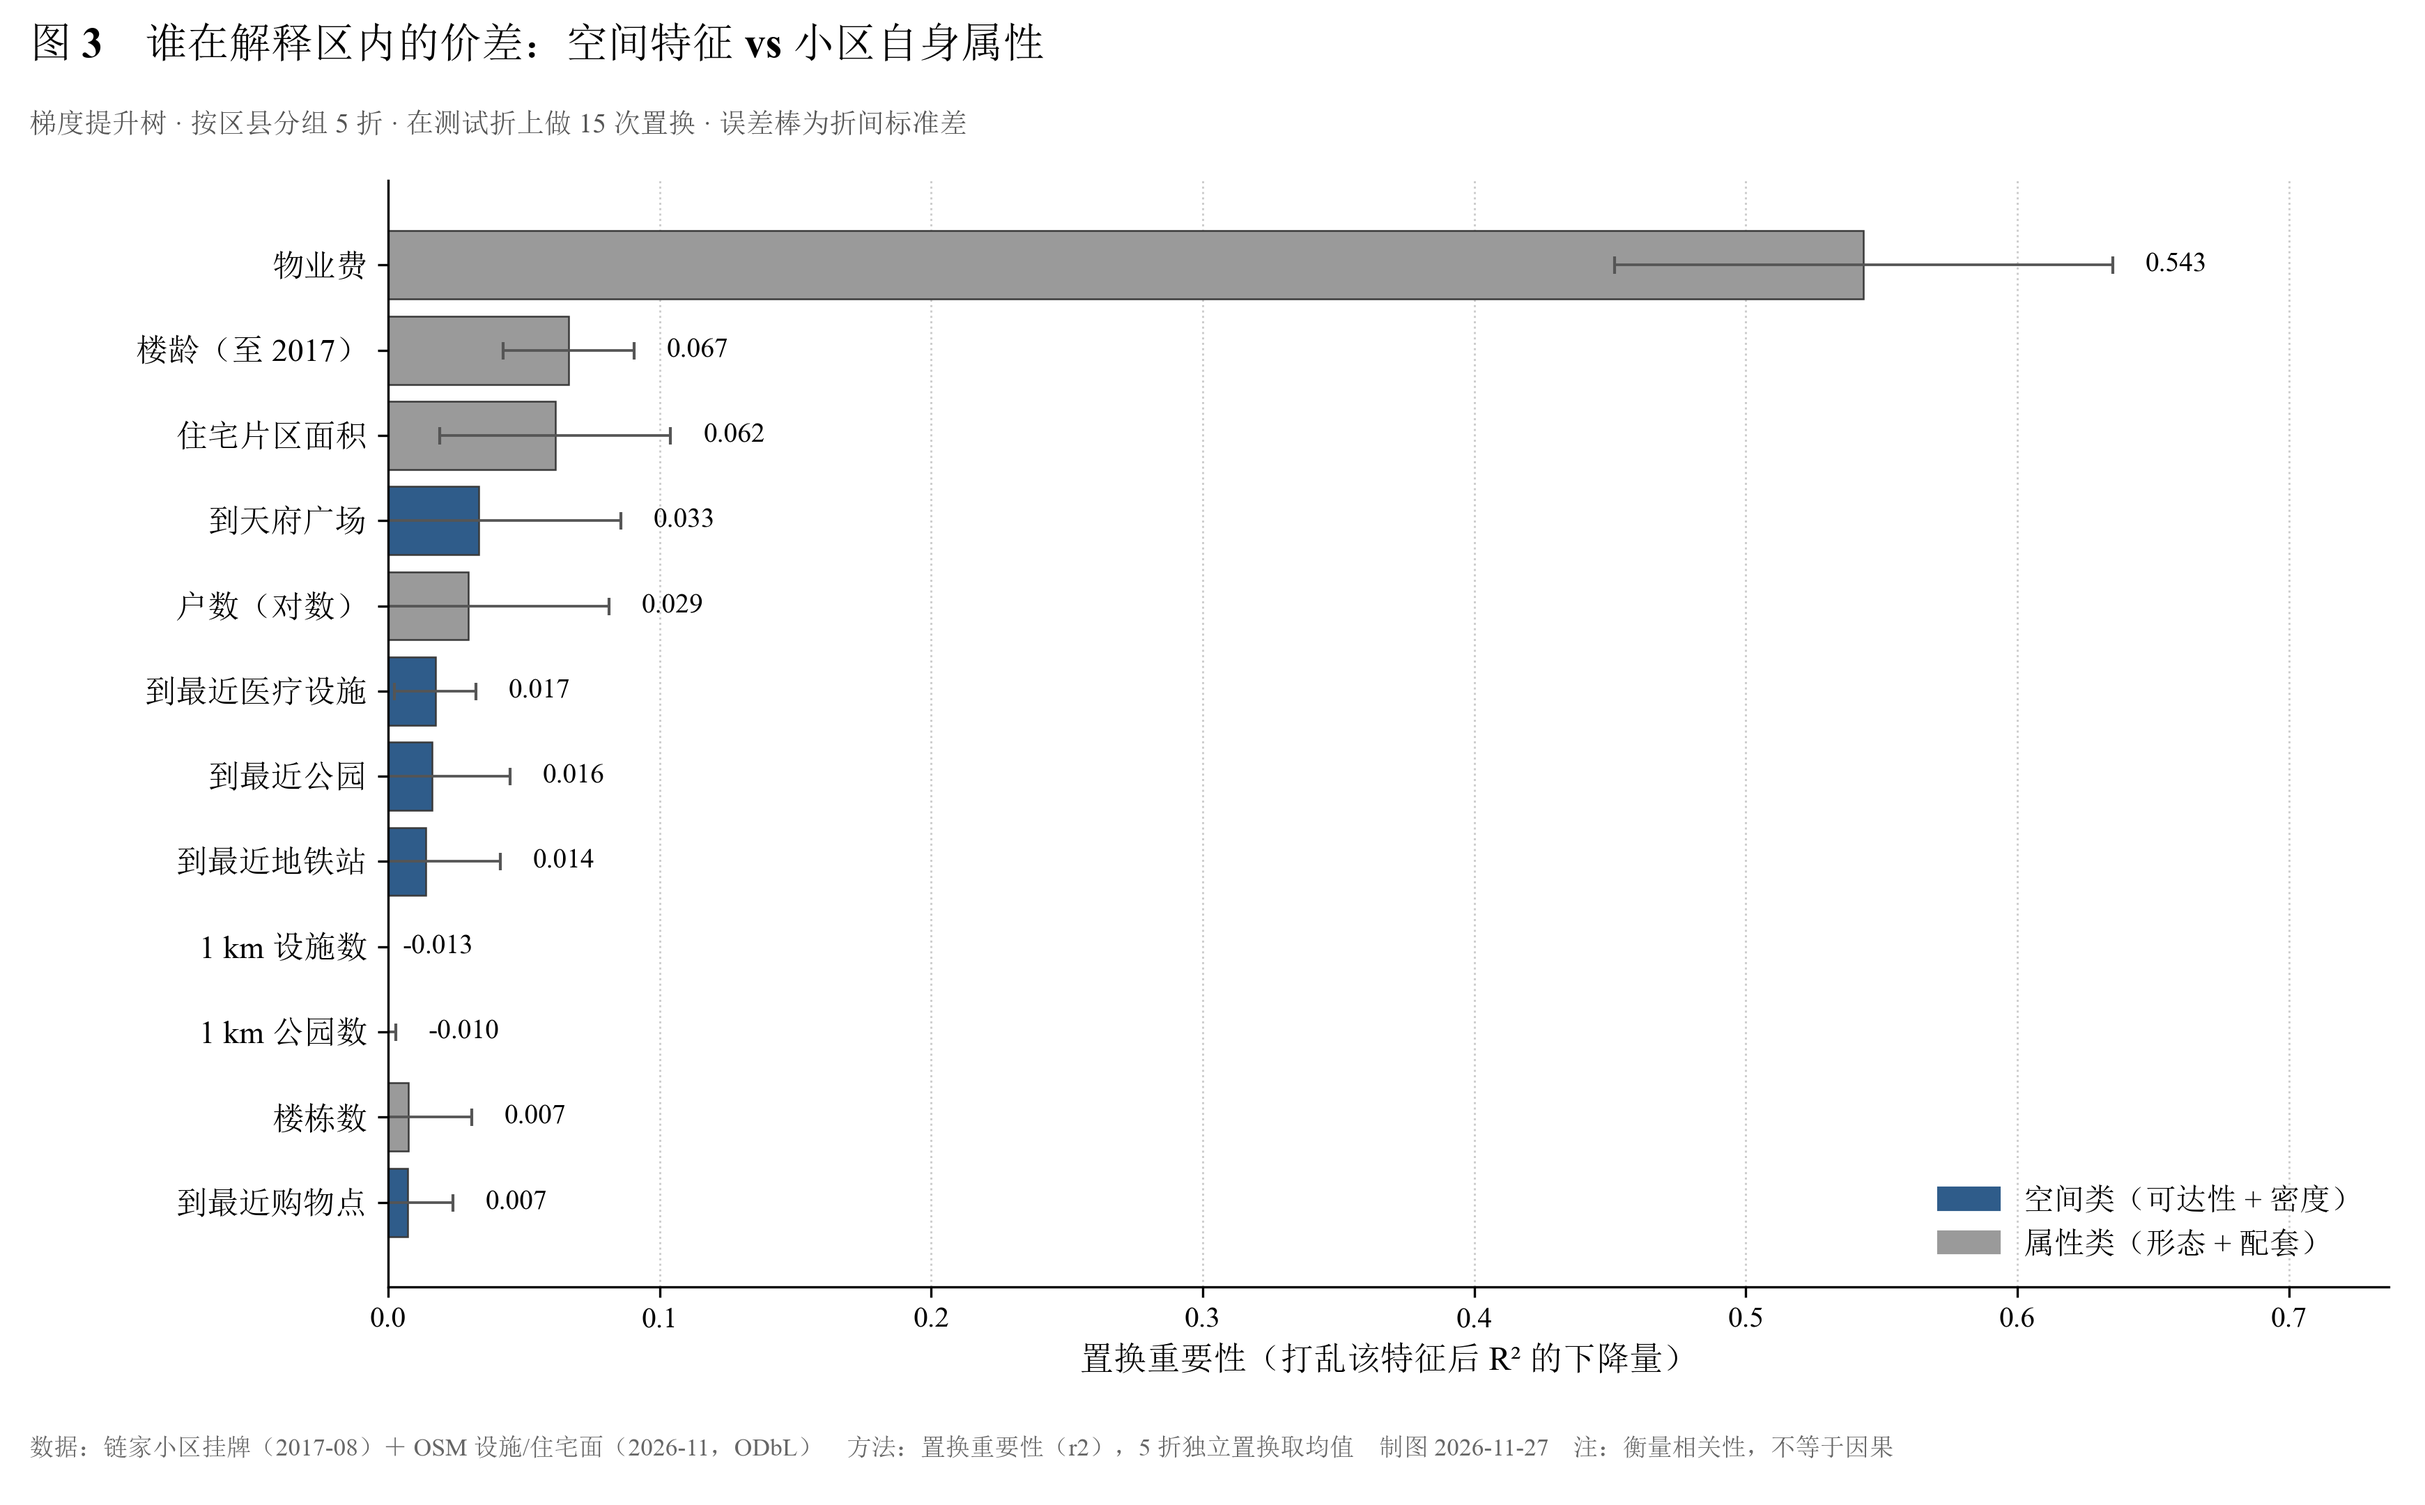
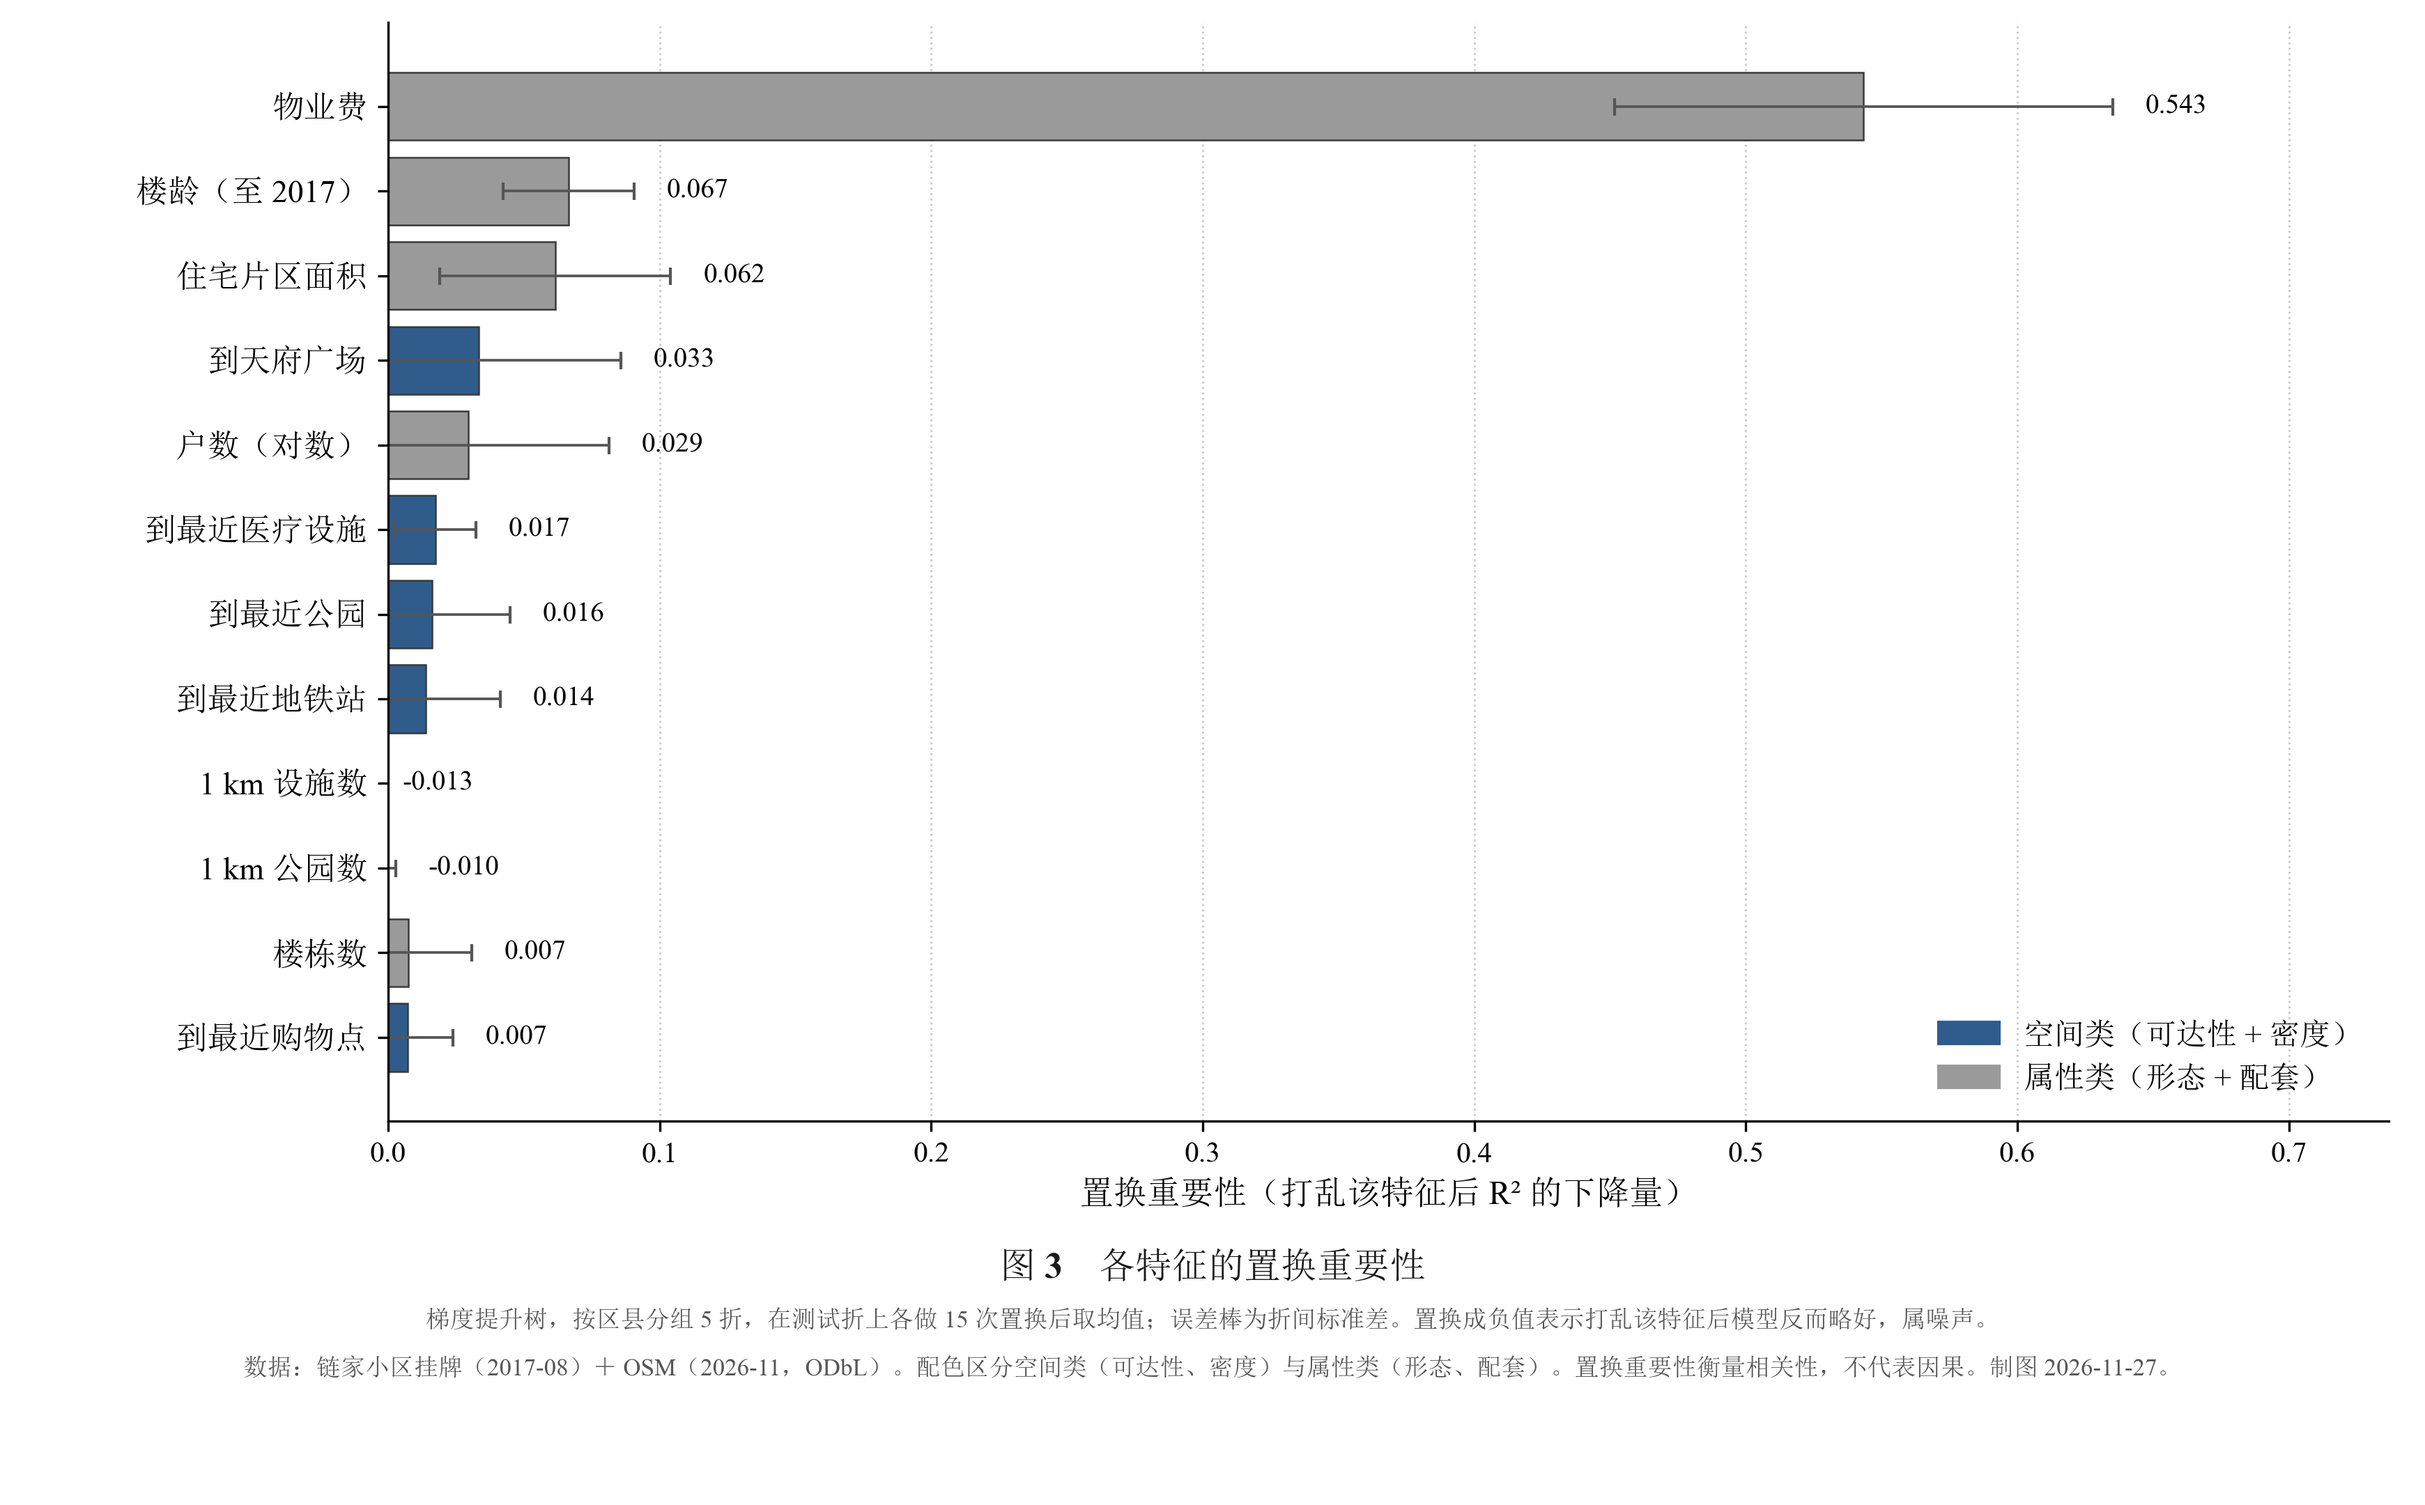
figs: 图名改为论文式（简洁题名、置于图下）+ README 图注

diff --git a/figures.py b/figures.py
@@ -51,6 +51,16 @@ def setup_fonts() -> bool:
     return ok
 
 
+def add_caption(fig, no: int, title: str, notes: list[str], top: float,
+                step: float = 0.030) -> None:
+    """论文式图注：图号 + 题名居中放在图下，其后接说明行（小字、灰色）。"""
+    fig.text(0.5, top, f"图 {no}　{title}", ha="center", va="top",
+             fontsize=12.5, fontweight="bold", color="#1a1a1a")
+    for i, n in enumerate(notes):
+        fig.text(0.5, top - 0.038 - i * step, n, ha="center", va="top",
+                 fontsize=8.4, color="#555555")
+
+
 def load_all():
     cv = json.loads((BUILD / "cv_results.json").read_text(encoding="utf-8"))
     oof = pd.read_csv(BUILD / "oof_predictions.csv", encoding="utf-8-sig")
@@ -64,7 +74,7 @@ def fig_cv_gap(cv: dict) -> Path:
     models = [("linear", "线性（岭回归）"), ("hgb", "梯度提升树")]
     colors = {0: "#C9D9E6", 1: "#5C86AE"}
 
-    fig, ax = plt.subplots(figsize=(12.6, 6.6))
+    fig, ax = plt.subplots(figsize=(12.6, 7.0))
     x = np.arange(len(schemes))
     width = 0.34
     for j, (mkey, mlabel) in enumerate(models):
@@ -108,17 +118,14 @@ def fig_cv_gap(cv: dict) -> Path:
     labels.append("基线 R² = 0（区内均值）")
     ax.legend(handles, labels, loc="upper right", frameon=False, fontsize=11)
 
-    fig.text(0.012, 0.965, "图 1　切分方式对预测精度的影响：随机 vs 空间分组",
-             fontsize=14.5, fontweight="bold")
-    fig.text(0.012, 0.905,
-             f"样本 525 个住宅小区 · 5 个中心城区 · 26 个特征 · 目标为区县内 log 单价 z-score · 制图 {MAP_DATE}",
-             fontsize=9.5, color="#555555")
-    fig.text(0.012, 0.035,
-             "数据：链家小区挂牌（2017-08 口径）＋ OpenStreetMap 设施/住宅面（2026-11 快照，ODbL）　"
-             "方法：同一份特征下比较 3 种切分 × 2 个模型，指标为按测试集样本数加权的折均值　　"
-             "制图：Matplotlib，宋体 + Times New Roman",
-             fontsize=8.5, color="#666666")
-    fig.subplots_adjust(left=0.07, right=0.985, top=0.87, bottom=0.12)
+    fig.subplots_adjust(left=0.09, right=0.985, top=0.985, bottom=0.225)
+    add_caption(
+        fig, 1, "交叉验证方式对模型精度的影响",
+        ["同一组特征与超参数，只更换切分方式；基线为区县内均值（R² = 0）。"
+         "样本 525 个住宅小区，5 个中心城区，26 个特征。",
+         "数据：链家小区挂牌（2017-08）＋ OpenStreetMap 设施与住宅面（2026-11，ODbL）。"
+         "指标为按测试集样本数加权的 5 折均值。制图：Matplotlib，宋体 + Times New Roman。"],
+        top=0.168)
     out = DOCS / "fig_cv_gap.png"
     fig.savefig(out, dpi=300, bbox_inches=None)
     plt.close(fig)
@@ -198,20 +205,16 @@ def fig_residual_map(oof: pd.DataFrame) -> Path:
     except Exception:
         pass
 
-    fig.text(0.012, 0.965, "图 2　模型残差的空间分布：它在哪里系统性看错",
-             fontsize=14.5, fontweight="bold")
-    fig.text(0.012, 0.908,
-             "梯度提升树 · 按区县分组 5 折交叉验证的 out-of-fold 预测 · "
-             f"残差 Moran's I = {moran['I']}（p = {moran['p_perm']}，8 邻域）", fontsize=9.5, color="#555555")
-    fig.text(0.012, 0.05,
-             "数据：链家小区挂牌（2017-08）＋ OSM 设施/住宅面（2026-11，ODbL）　"
-             "投影：WGS84 经纬度（比例尺按 30.7°N 换算）　制图：2026-11-27",
-             fontsize=8.5, color="#666666")
-    fig.text(0.012, 0.028,
-             "方法：残差 = 同区县内实际 log 单价与预测之差，百分比由该区 log 标准差还原；"
-             "片区标注取样本 ≥8 的片区中位数　注：色阶截断于 ±95 分位",
-             fontsize=8.5, color="#666666")
-    fig.subplots_adjust(left=0.02, right=0.985, top=0.88, bottom=0.135)
+    fig.subplots_adjust(left=0.02, right=0.985, top=0.985, bottom=0.235)
+    add_caption(
+        fig, 2, "模型残差的空间分布",
+        ["梯度提升树，按区县分组 5 折的 out-of-fold 预测。残差 = 区内实际 log 单价与预测之差，"
+         "按该区 log 标准差还原为百分比。",
+         f"Moran's I = {moran['I']}（p = {moran['p_perm']}，8 邻域 KNN 权重，999 次置换）。"
+         "暖色为低估（实际更贵），冷色为高估；色阶截断于 ±95 分位。",
+         "片区标注取样本数 ≥ 8 的片区中位数。投影 WGS84，比例尺按 30.7°N 换算。"
+         "数据：链家挂牌（2017-08）＋ OSM（2026-11，ODbL）。制图 2026-11-27。"],
+        top=0.130, step=0.032)
     out = DOCS / "fig_residual_map.png"
     fig.savefig(out, dpi=300, bbox_inches=None)
     plt.close(fig)
@@ -250,16 +253,14 @@ def fig_importance(cv: dict) -> Path:
                        Patch(color="#9A9A9A", label="属性类（形态 + 配套）")],
               loc="lower right", frameon=False, fontsize=10.5)
 
-    fig.text(0.012, 0.962, "图 3　谁在解释区内的价差：空间特征 vs 小区自身属性",
-             fontsize=14.5, fontweight="bold")
-    fig.text(0.012, 0.912,
-             "梯度提升树 · 按区县分组 5 折 · 在测试折上做 15 次置换 · 误差棒为折间标准差",
-             fontsize=9.5, color="#555555")
-    fig.text(0.012, 0.033,
-             "数据：链家小区挂牌（2017-08）＋ OSM 设施/住宅面（2026-11，ODbL）　"
-             "方法：置换重要性（r2），5 折独立置换取均值　制图 2026-11-27　注：衡量相关性，不等于因果",
-             fontsize=8.5, color="#666666")
-    fig.subplots_adjust(left=0.16, right=0.985, top=0.88, bottom=0.145)
+    fig.subplots_adjust(left=0.16, right=0.985, top=0.985, bottom=0.255)
+    add_caption(
+        fig, 3, "各特征的置换重要性",
+        ["梯度提升树，按区县分组 5 折，在测试折上各做 15 次置换后取均值；误差棒为折间标准差。"
+         "置换成负值表示打乱该特征后模型反而略好，属噪声。",
+         "数据：链家小区挂牌（2017-08）＋ OSM（2026-11，ODbL）。配色区分空间类（可达性、密度）"
+         "与属性类（形态、配套）。置换重要性衡量相关性，不代表因果。制图 2026-11-27。"],
+        top=0.168, step=0.032)
     out = DOCS / "fig_feature_importance.png"
     fig.savefig(out, dpi=300, bbox_inches=None)
     plt.close(fig)

diff --git a/README.md b/README.md
@@ -4,9 +4,10 @@
 >
 > **一个答案**：随机切分的 R²=0.35 是假的；按区县分组后只有 **0.16**——**18.8 个百分点是空间自相关灌进来的**。
 >
-> 一条命令重建：`python run_model.py`（4789 条原始要素 → 525 个样本 → 3 张图 + 1 张模型卡，约 3.5 分钟）
+> 一条命令重建：`python run_model.py`（10 078 行原始挂牌 → 525 个样本 → 3 张图 + 1 张模型卡，约 3.5 分钟）
 
 ![切分方式的影响](docs/fig_cv_gap.png)
+<sub>图 1　交叉验证方式对模型精度的影响</sub>
 
 ---
 
@@ -22,6 +23,7 @@
 样本：**525 个住宅小区**，5 个中心城区（金牛 135 / 武侯 124 / 成华 122 / 青羊 84 / 锦江 60），96 个片区，26 个特征。
 
 ![残差的空间分布](docs/fig_residual_map.png)
+<sub>图 2　模型残差的空间分布</sub>
 
 ## 二、解决什么问题
 
@@ -33,6 +35,7 @@
 所以这个项目可以当成一个「专业信号」：它输出的不是一张好看的预测图，而是**一句可以拿去说服客户的话**——「您这个项目如果想要可信的精度评估，切分必须按空间单元分组，否则数字是虚的」。
 
 ![特征重要性](docs/fig_feature_importance.png)
+<sub>图 3　各特征的置换重要性</sub>
 
 ## 三、怎么跑
 
